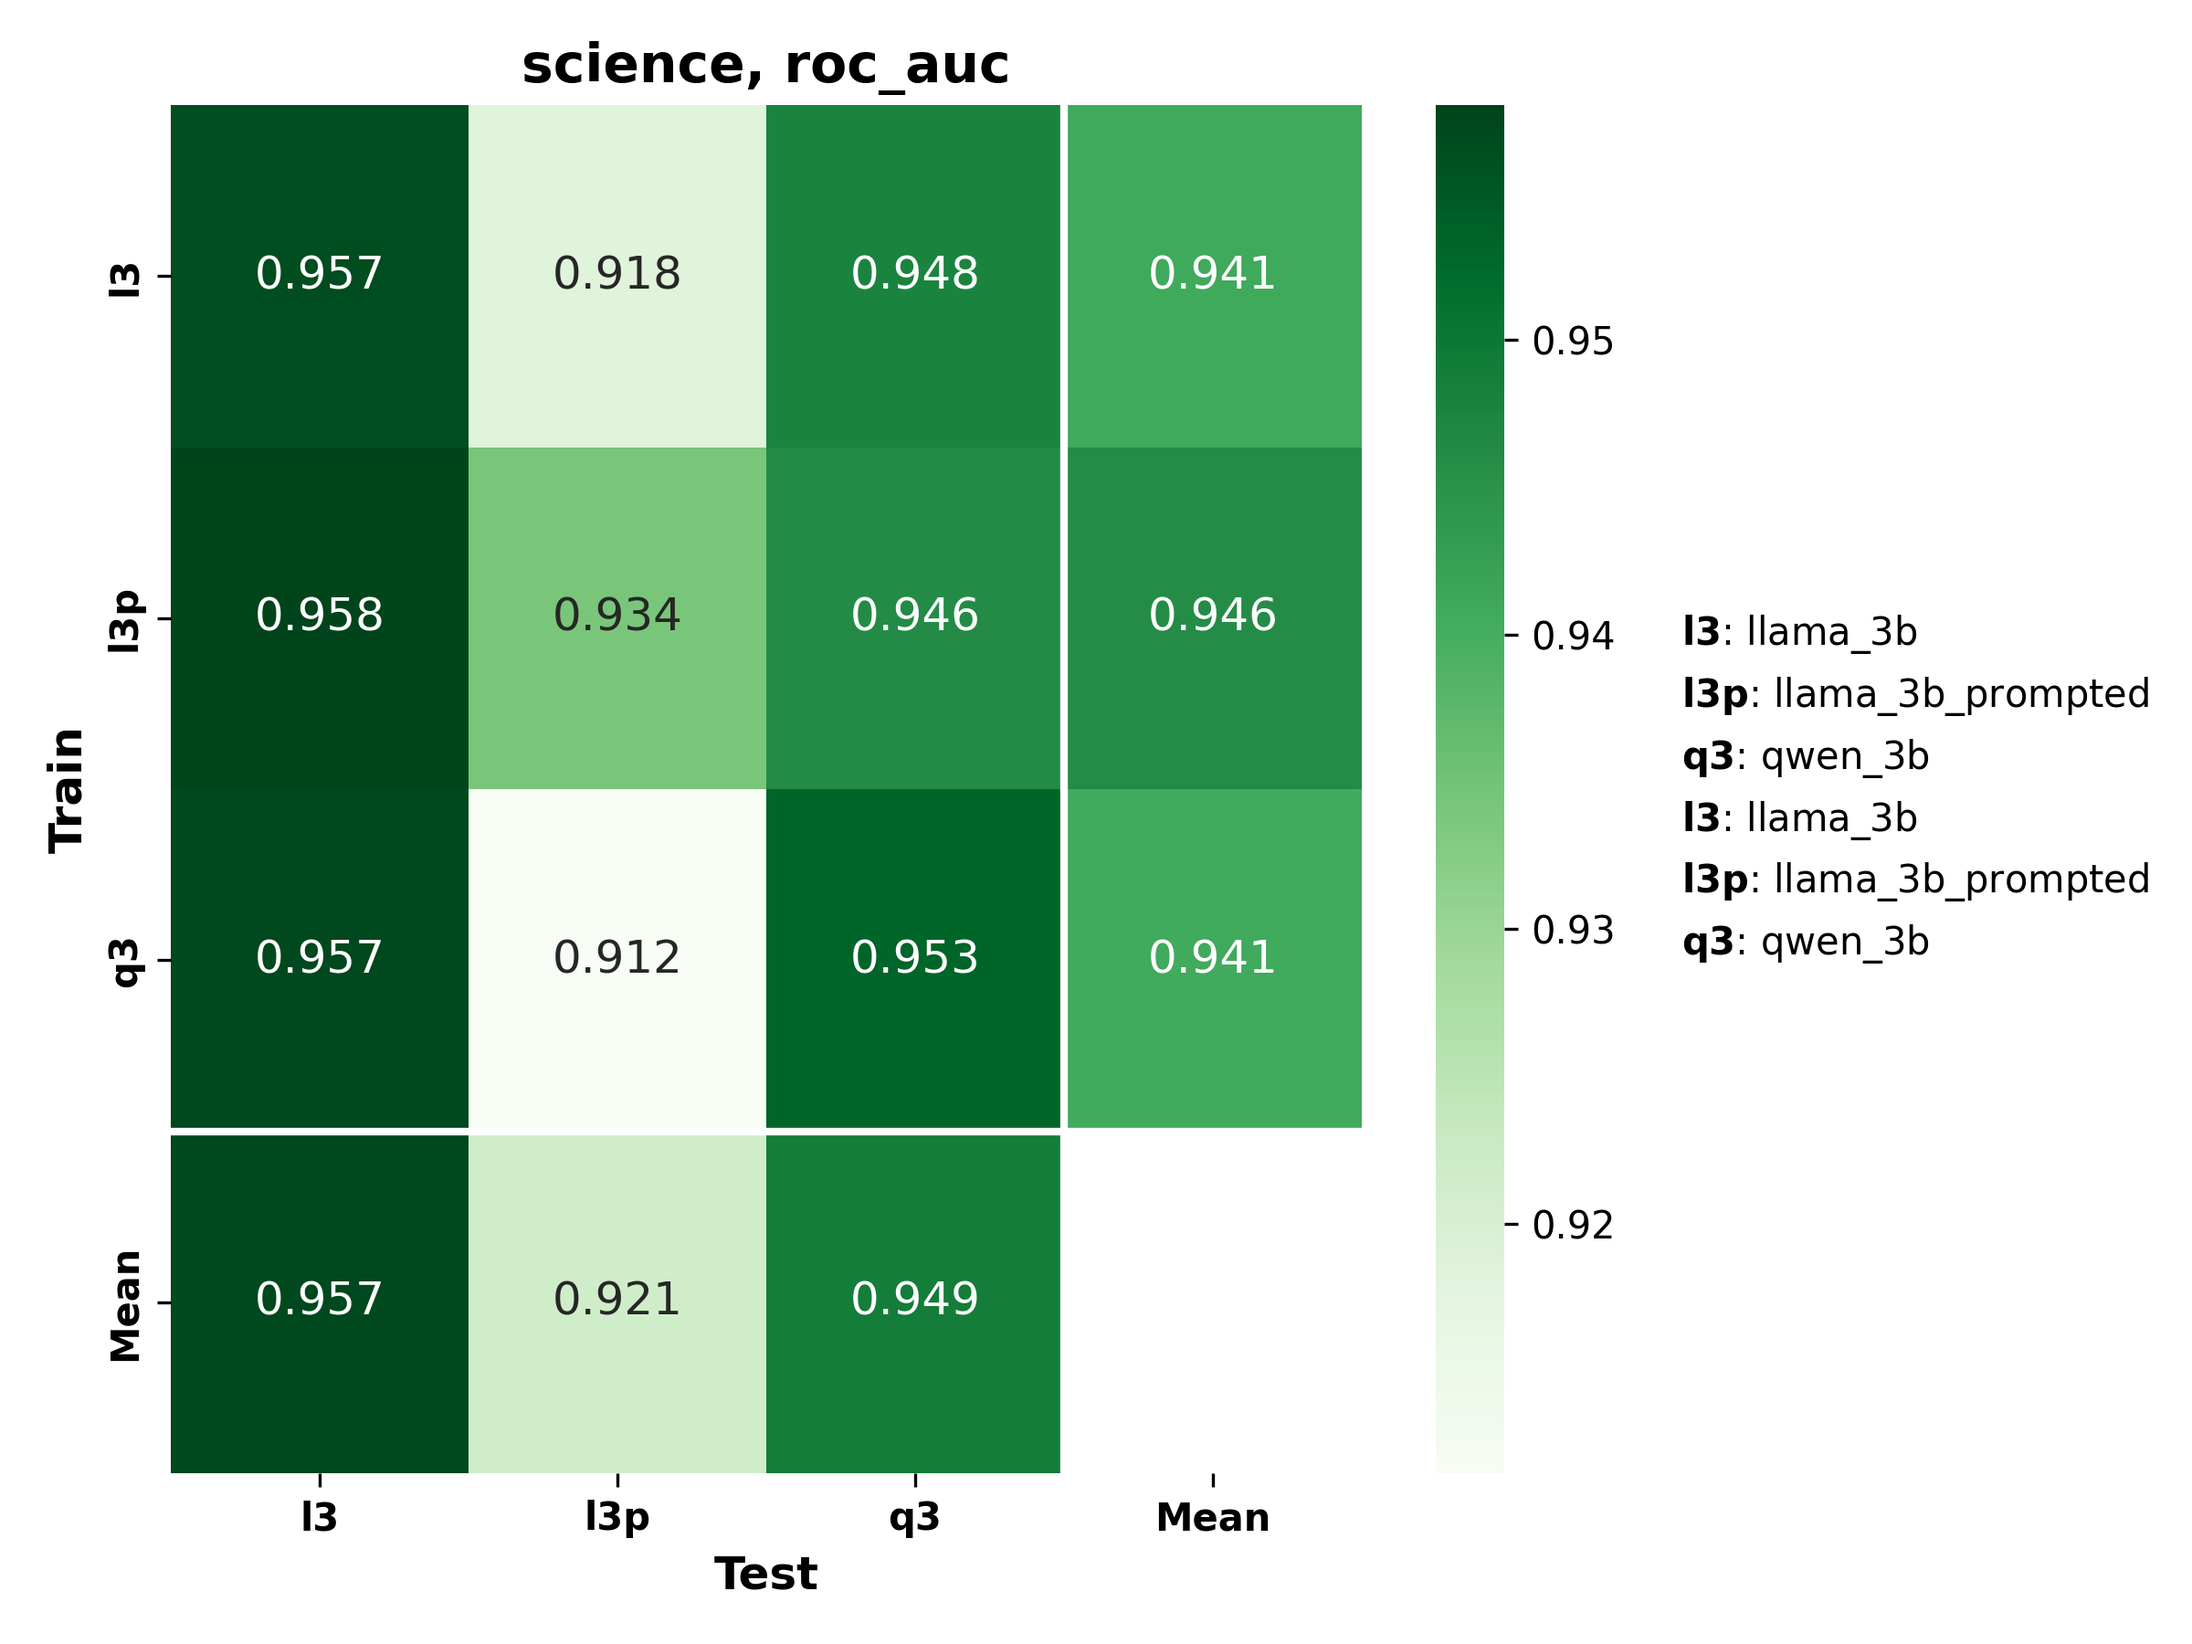
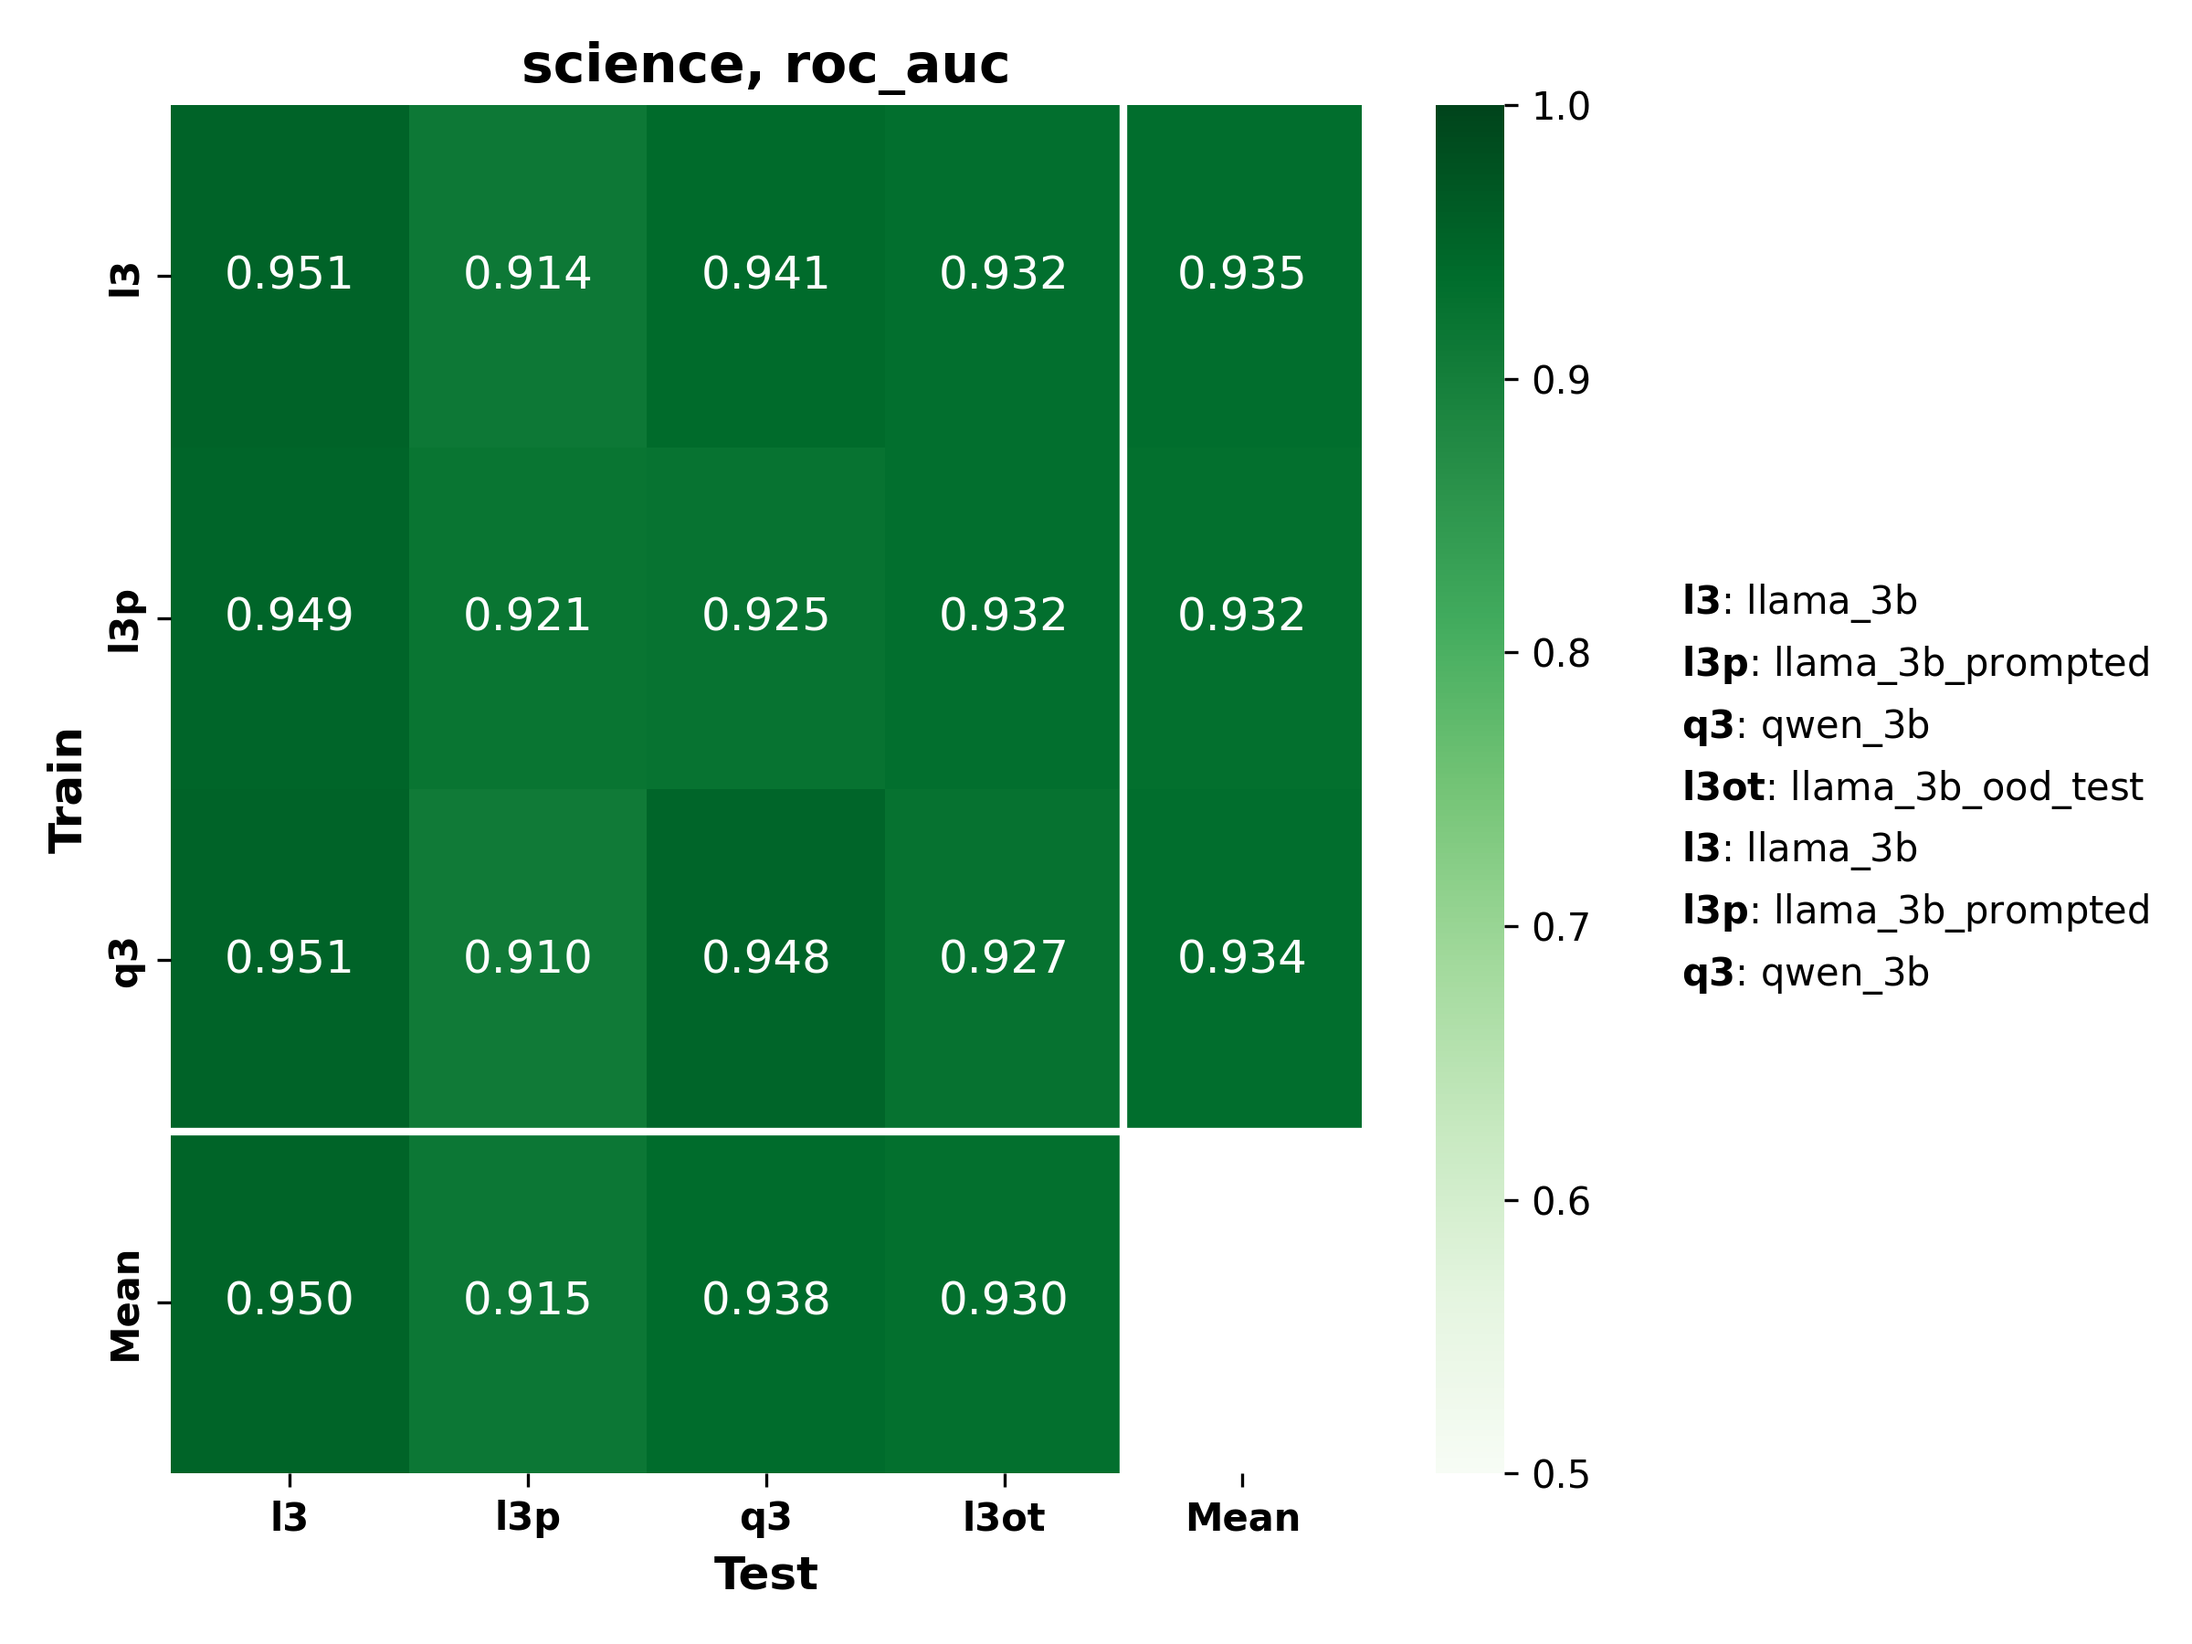
add everything for science OOD

diff --git a/src/probe_gen/standard_experiments/grid_experiments.py b/src/probe_gen/standard_experiments/grid_experiments.py
@@ -418,21 +418,24 @@ def plot_grid_experiment(
 
 
 ## SUMMARY GRAPHS
-
-def plot_grid_experiment_lean_with_means(probes_setup, test_dataset_names, activations_model, min_metric=None, max_metric=None, metric="roc_auc", behaviour="", save = False):
-    # === Step 1: Preprocessing Setup (unchanged) ===
+def plot_grid_experiment_lean_with_means(probes_setup, test_dataset_names, activations_model, min_metric=None, max_metric=None, metric="roc_auc", behaviour="", save=False):
+    # === Step 1: Preprocessing Setup (EXACT COPY from plot_grid_experiment_lean) ===
     ps = probes_setup
     for i in range(len(probes_setup)):
         if len(ps[i]) == 2:
-            best_cfg = None
-            try:
-                best_cfg = ConfigDict.from_json(ps[i][0], ps[i][1])
-            except KeyError:
-                print(f"No best hyperparameters found for {ps[i][0]}, {ps[i][1]} locally, pulling from wandb...")
-                best_cfg = load_best_params_from_search(ps[i][0], ps[i][1], "llama_3b")
-            if best_cfg is None:
-                raise ValueError(f"No best hyperparameters found for {ps[i][0]}, {ps[i][1]}")
-            ps[i] = [ps[i][0], ps[i][1], ConfigDict(best_cfg)]
+            if ps[i][0] == 'mean':
+                best_cfg = ConfigDict.from_json(ps[i][0], ps[i][1].split("_")[0])
+                ps[i] = [ps[i][0], ps[i][1], ConfigDict(layer=best_cfg.layer, use_bias=True, normalize=True, C=best_cfg.C)]
+            else:
+                best_cfg = None
+                try:
+                    best_cfg = ConfigDict.from_json(ps[i][0], ps[i][1])
+                except KeyError:
+                    print(f"No best hyperparameters found for {ps[i][0]}, {ps[i][1]} locally, pulling from wandb...")
+                    best_cfg = load_best_params_from_search(ps[i][0], ps[i][1], "llama_3b")
+                if best_cfg is None:
+                    raise ValueError(f"No best hyperparameters found for {ps[i][0]}, {ps[i][1]}")
+                ps[i] = [ps[i][0], ps[i][1], ConfigDict(best_cfg)]
 
     # === Step 2: Collect Result Table ===
     results_table = np.full((len(probes_setup), len(test_dataset_names)), -1, dtype=float)
@@ -490,7 +493,6 @@ def plot_grid_experiment_lean_with_means(probes_setup, test_dataset_names, activ
     min_metric = min_metric if min_metric is not None else (np.min(valid_values) if valid_values.size > 0 else 0)
     max_metric = max_metric if max_metric is not None else (np.max(valid_values) if valid_values.size > 0 else 1)
 
-
     sns.heatmap(
         full_table,
         mask=mask,
@@ -521,9 +523,9 @@ def plot_grid_experiment_lean_with_means(probes_setup, test_dataset_names, activ
     # === Step 8: Legend for abbreviations ===
     legend_elements = []
     for short, full in zip(test_short_labels, test_full_labels):
-        legend_elements.append(Patch(facecolor='none', edgecolor='none', label = rf"$\mathbf{{{short}}}$: {full}"))
+        legend_elements.append(Patch(facecolor='none', edgecolor='none', label=rf"$\mathbf{{{short}}}$: {full}"))
     for short, full in zip(train_short_labels, train_full_labels):
-        legend_elements.append(Patch(facecolor='none', edgecolor='none', label = rf"$\mathbf{{{short}}}$: {full}"))
+        legend_elements.append(Patch(facecolor='none', edgecolor='none', label=rf"$\mathbf{{{short}}}$: {full}"))
 
     ax.legend(
         handles=legend_elements,
@@ -539,12 +541,8 @@ def plot_grid_experiment_lean_with_means(probes_setup, test_dataset_names, activ
 
     fig.tight_layout()
 
-
     if save:
         save_path = data.figures / behaviour / f"{behaviour}_{metric}_heatmap.png"
         plt.savefig(save_path, dpi=300)
         plt.savefig(save_path.path.with_suffix(".pdf"), dpi=300)
     plt.show()
-
-    
-

diff --git a/src/probe_gen/config.py b/src/probe_gen/config.py
@@ -662,6 +662,7 @@ TRAIN_AND_TEST_SETS = {
             "science_llama_3b_1k",
             "science_llama_3b_prompted_1k",
             "science_qwen_3b_1k",
+            "science_llama_3b_ood_test_1k",
         ],
     },
     "sycophancy_short": {

diff --git a/src/probe_gen/annotation/science_behaviour.py b/src/probe_gen/annotation/science_behaviour.py
@@ -23,7 +23,6 @@ MMLU_SUBCATEGORIES = [
     "marketing", 
     "sociology", 
     "world_religions",
-
 ]
 
 
